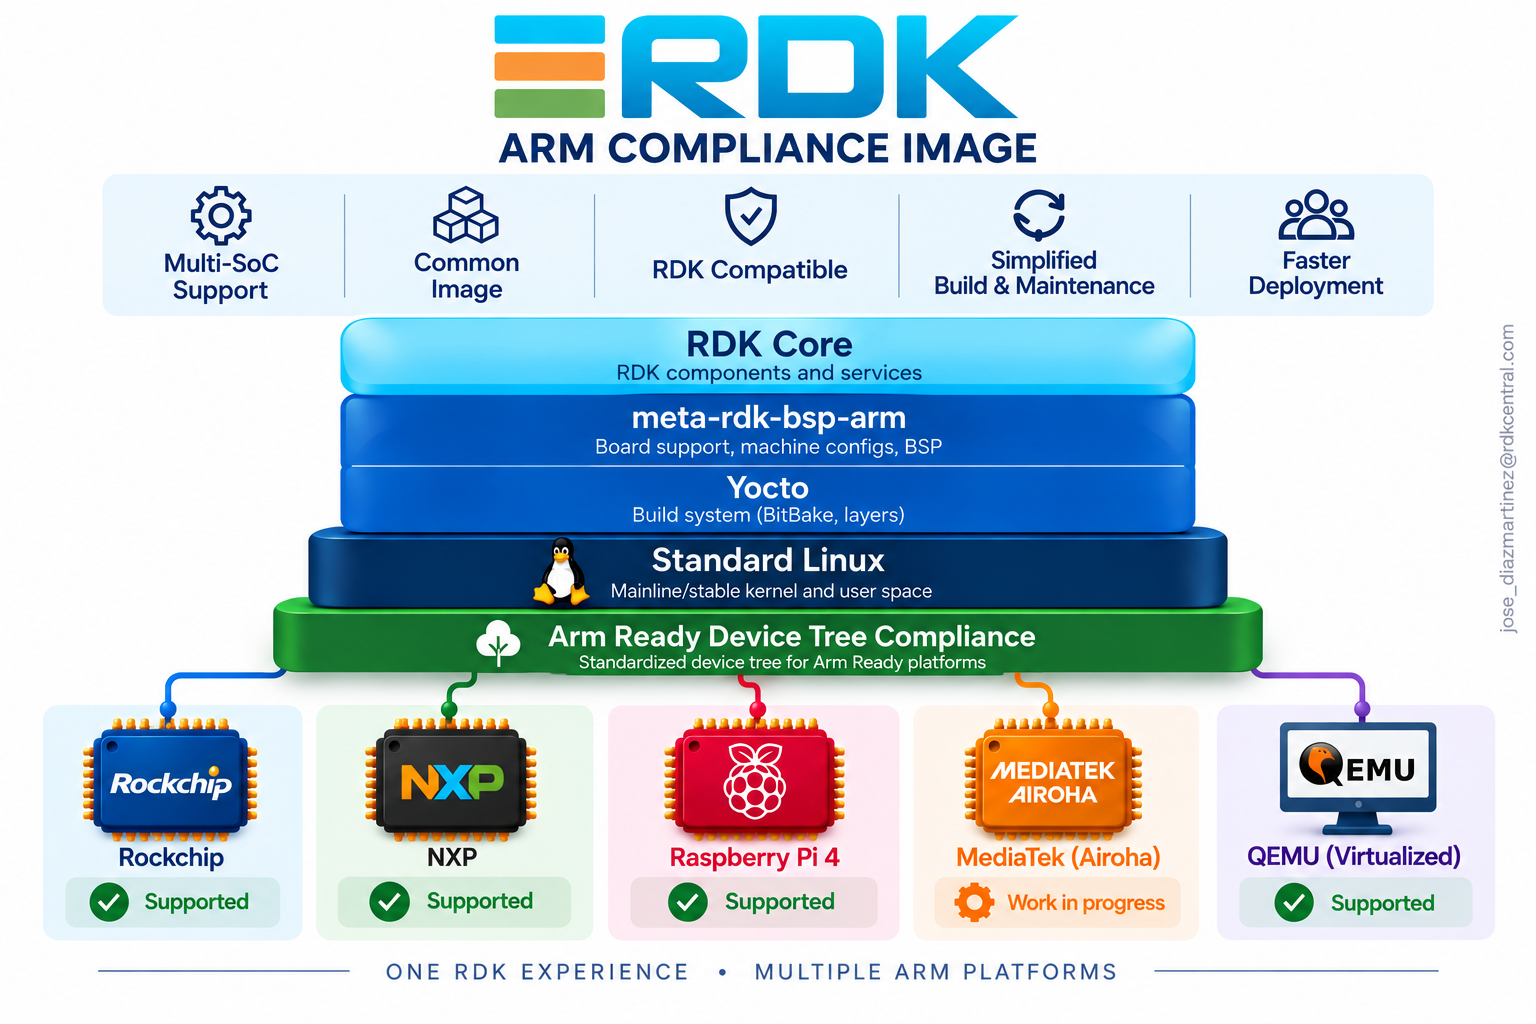
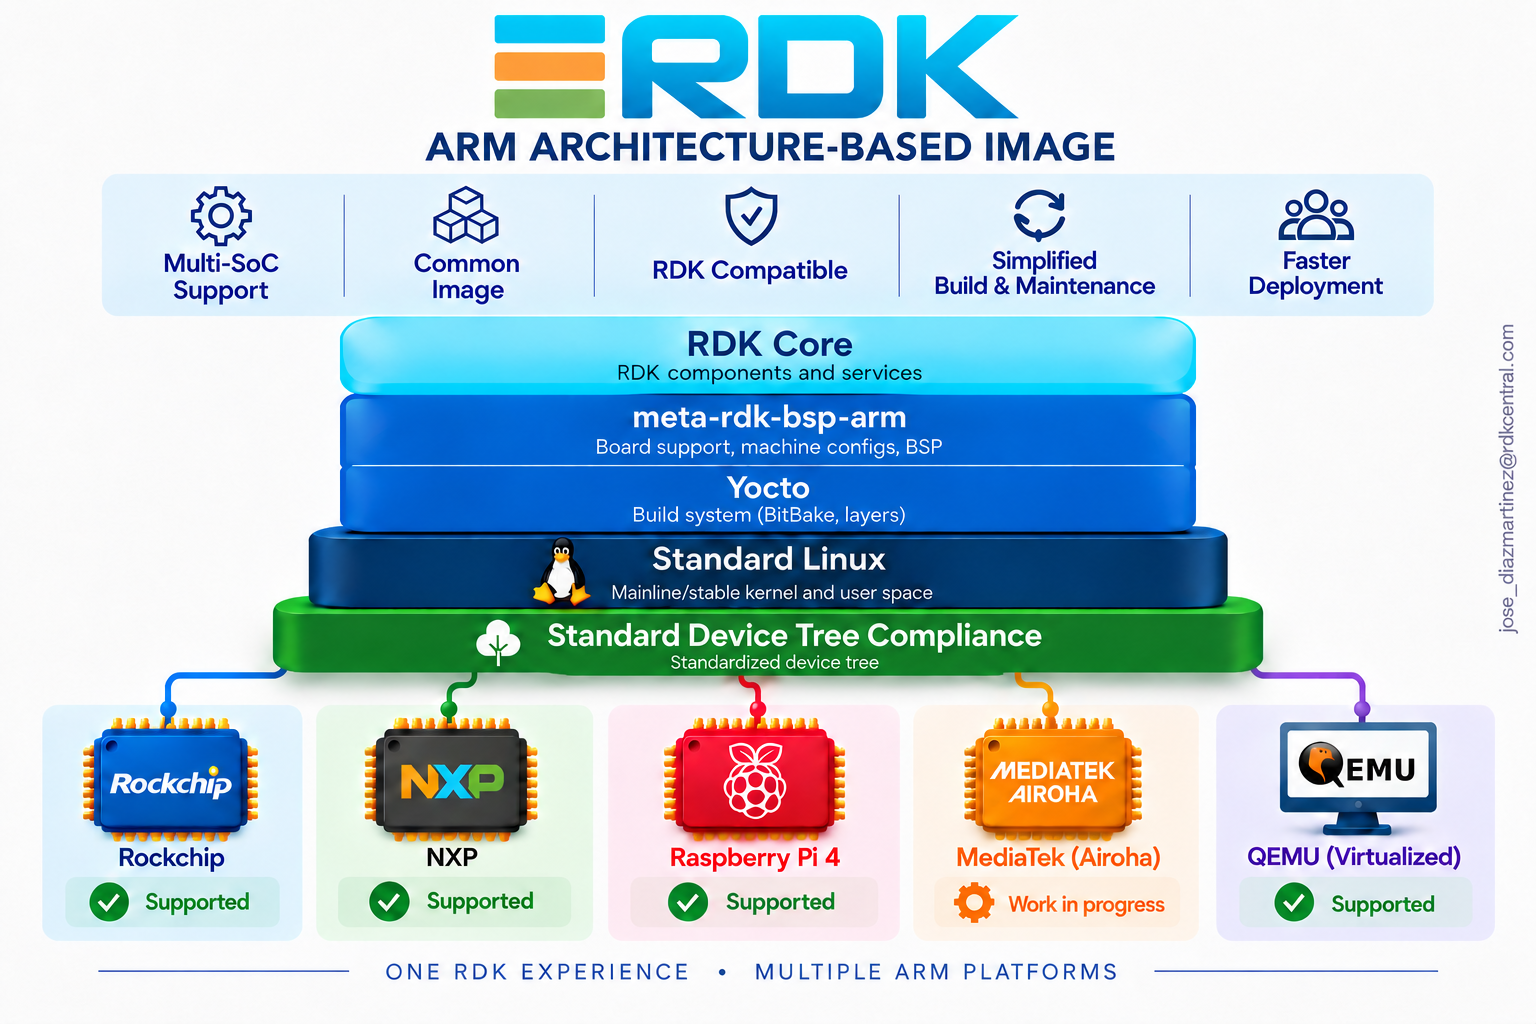
Update README trademark and compatibility wording

diff --git a/README.md b/README.md
@@ -1,16 +1,16 @@
-# RDK-B Reference BSP for Arm SystemReady
+# RDK-B Reference BSP for Arm Architecture
 
-This Yocto BSP layer builds a portable RDK-B operating system image for supported boards and virtual machines that implement [Arm SystemReady](https://www.arm.com/architecture/system-architectures/systemready-certification-program).
+This Yocto Project BSP layer builds a portable RDK-B operating system image for supported Arm®-based boards and virtual machines with compatible UEFI firmware.
 
 Other compatible hardware may also boot the image, with support on a best-effort basis. The layer uses only community-maintained upstream sources, including the Linux kernel from kernel.org.
 
-## Arm SystemReady introduction
+## Arm architecture alignment
 
-Arm SystemReady gives RDK-B a common firmware-to-OS interface. Firmware uses UEFI to boot the operating system and, on Device Tree-based platforms, describes the board hardware to Linux. This common boot flow reduces board-specific integration work and lets the same RDK-B image boot across supported platforms.
+The layer aligns with the Arm architecture and uses common firmware interfaces to support portable RDK-B images. Firmware uses UEFI to boot the operating system and, on Device Tree-based platforms, describes the board hardware to Linux. This common boot flow reduces board-specific integration work and lets the same RDK-B image boot across supported platforms.
 
 ## Table of contents
 
-- [Arm SystemReady introduction](#arm-systemready-introduction)
+- [Arm architecture alignment](#arm-architecture-alignment)
 - [Architecture and platform integration](#architecture-and-platform-integration)
 - [Build environment](#build-environment)
 - [How to use](#how-to-use)
@@ -64,9 +64,9 @@ Adding a new SoC can require custom work across several parts of the stack.
 - image layout
 - upgrade flow
 
-**Arm SystemReady provides a common firmware-to-OS contract that greatly reduces platform-specific adaptation.**
+**Common firmware-to-OS interfaces reduce platform-specific adaptation.**
 
-### Arm SystemReady building blocks
+### Architecture and firmware building blocks
 
 | Component | Purpose |
 |-----------|---------|
@@ -90,14 +90,14 @@ Adding a new SoC can require custom work across several parts of the stack.
 - Firmware–OS interoperability — Defines a consistent firmware-to-OS interface through EBBR/UEFI, so RDK-B can use a common boot flow across SoCs.
 - Security consistency — Provides an industry-standard model for Secure Boot and authenticated firmware updates through BBSR.
 - Standard OS update and rollback flow — Enables the OS to request the next boot target through standard UEFI boot variables and boot-management mechanisms, supporting A/B updates, recovery, and rollback.
-- Trusted firmware updates — Enables authenticated board-firmware updates using standard UEFI Capsule Update services, where the platform supports the SystemReady Security Extension.
-- Portable RDK-B OS image — Uses firmware-provided Device Tree hardware descriptions, allowing one RDK-B image to support multiple compliant platforms while keeping board-specific hardware configuration in firmware.
+- Trusted firmware updates — Enables authenticated board-firmware updates using standard UEFI Capsule Update services where supported by the platform.
+- Portable RDK-B OS image — Uses firmware-provided Device Tree hardware descriptions, allowing one RDK-B image to support multiple compatible platforms while keeping board-specific hardware configuration in firmware.
 
 ### Firmware-to-OS contract
 
 #### Firmware and hardware responsibilities
 
-The firmware shall provide a standard firmware-to-operating-system contract aligned with Arm SystemReady, including the required EBBR-based UEFI boot behavior.
+The firmware shall provide a standard firmware-to-operating-system interface, including the required EBBR-based UEFI boot behavior.
 
 The firmware has the following responsibilities on Device Tree-based platforms.
 
@@ -130,7 +130,7 @@ The operating system relies on standard firmware interfaces.
 * The bootloader can be started through standard UEFI boot entries (`BootOrder`, `BootNext`, EFI executable paths).
 * The kernel uses the firmware-supplied Device Tree to discover CPUs, memory, interrupt controllers, timers, buses, and board peripherals.
 
-This gives the operating system image a common boot path. The same RDK-B image can run on multiple Arm SystemReady platforms when the kernel includes the required drivers and Device Tree bindings.
+This gives the operating system image a common boot path. The same RDK-B image can run on multiple compatible Arm-based platforms when the kernel includes the required drivers and Device Tree bindings.
 
 ### Proposed boot chain
 
@@ -158,7 +158,7 @@ Linux Userspace
 
 #### Purpose
 
-`meta-rdk-bsp-arm` is the RDK-B reference BSP meta-layer used to build portable SystemReady/UEFI-based operating system images and integrate board firmware for supported targets.
+`meta-rdk-bsp-arm` is the RDK-B reference BSP meta-layer used to build portable UEFI-bootable operating system images and integrate board firmware for supported targets.
 
 ##### Current strategy
 
@@ -166,26 +166,18 @@ Linux Userspace
 * Provides greater implementation flexibility
 * Reduces dependency-alignment effort
 
-<a href="doc/rdk-arm-generic-current.png">
-  <img src="doc/rdk-arm-generic-current.png" width="640" alt="Current Arm SystemReady stack with RDK Core, meta-rdk-bsp-arm, Yocto, Linux, and Device Tree support across Arm platforms">
-</a>
-
 ##### Long-term layering strategy
 
-To align with the upstream Arm SystemReady Yocto ecosystem, we plan to split `meta-rdk-bsp-arm` into two Yocto layers.
+To align with the upstream Arm-based Yocto Project ecosystem, we plan to split `meta-rdk-bsp-arm` into two Yocto Project layers.
 
 - `meta-rdkb-bsp` will own board support and all Linux platform dependencies required by RDK-B, including machine configurations, board firmware, the Linux kernel, and system packages.
-- `meta-rdkb-runtime` will be dedicated to RDK-B components and their Yocto recipes and runtime configuration. These components will run on the Linux platform provided by the BSP layer.
+- `meta-rdkb-runtime` will be dedicated to RDK-B components and their Yocto Project recipes and runtime configuration. These components will run on the Linux platform provided by the BSP layer.
 
-<a href="doc/rdk-arm-generic-evolution.png">
-  <img src="doc/rdk-arm-generic-evolution.png" width="640" alt="Proposed Arm SystemReady stack with meta-rdkb-bsp for the Linux hardware image and meta-rdkb-runtime added for the RDK-B image with TR-181">
-</a>
-
-Where possible, `meta-rdkb-bsp` will build on the following Arm-provided Yocto support.
+Where possible, `meta-rdkb-bsp` will build on the following Arm-provided Yocto Project support.
 
 - `meta-arm`
 - `generic-arm64` / `genericarm64`
-- SystemReady-related support available in the `meta-arm` repository
+- Firmware and machine support available in the `meta-arm` repository
 
 ### Requirements from SoC vendors
 
@@ -193,7 +185,7 @@ Where possible, `meta-rdkb-bsp` will build on the following Arm-provided Yocto s
 
 ##### Firmware
 
-- SystemReady / EBBR compliant firmware
+- EBBR-compliant firmware
 - UEFI firmware image
 - Trusted Firmware-A (TF-A)
 - U-Boot (or equivalent bootloader)
@@ -247,9 +239,8 @@ Where possible, `meta-rdkb-bsp` will build on the following Arm-provided Yocto s
 - Supported boot devices
 - Known platform-specific limitations
 
-##### Arm SystemReady compliance
+##### Firmware interface compliance
 
-- SystemReady compliance level
 - EBBR capabilities
 - BBSR capabilities
 - Compliance evidence or certification reports
@@ -275,8 +266,8 @@ Where possible, `meta-rdkb-bsp` will build on the following Arm-provided Yocto s
 
 ##### Integration guidance
 
-- How to boot a generic EFI/SystemReady operating system
-- How to integrate the platform with Yocto
+- How to boot a generic UEFI operating system
+- How to integrate the platform with the Yocto Project
 - Guidance for other Linux distributions
 - Required proprietary firmware blobs or packages
 - Reference board setup
@@ -288,7 +279,7 @@ Where possible, `meta-rdkb-bsp` will build on the following Arm-provided Yocto s
 
 #### SoC vendor proposed ownership
 
-* Deliver a SystemReady Device Tree compliant firmware stack.
+* Deliver a firmware stack with UEFI boot support and a valid Device Tree.
 * Perform hardware bring-up.
 * Maintain UEFI / EBBR firmware.
 * Enable Secure Boot where supported.
@@ -297,37 +288,18 @@ Where possible, `meta-rdkb-bsp` will build on the following Arm-provided Yocto s
 
 #### RDK Management proposed ownership
 
-* Maintain the reusable Yocto integration.
+* Maintain the reusable Yocto Project integration.
 * Provide machine configurations.
 * Maintain the common Linux kernel baseline.
 * Build EFI bootable RDK-B images.
 * Maintain a common upgrade strategy.
 * Provide validation and lifecycle management across supported platforms.
 
-#### Arm current ownership
-
-- Define and maintain the Arm SystemReady specifications.
-- Define the EBBR and BBSR compliance requirements.
-- Maintain the Base System Architecture (BSA) specifications.
-- Provide reference firmware implementations and tooling where applicable.
-- Define and evolve the firmware-to-operating-system contract.
-- Operate the SystemReady compliance and certification program.
-
-#### Arm proposed contribution
-
-- Provide guidance on the recommended use of `meta-arm`, `generic-arm64`, and SystemReady-related Yocto support.
-- Help identify gaps between the upstream Arm Yocto ecosystem and broadband gateway requirements.
-- Review the `meta-rdk-bsp-arm` layering strategy and suggest alignment points with upstream Arm layers.
-- Support technical sync-ups to discuss missing functionality, integration blockers, and possible upstream improvements.
-- Advise on SystemReady, EBBR, BBSR, and firmware-to-OS contract interpretation.
-- Help define what should remain RDK-specific and what could be contributed or aligned upstream.
-- Provide feedback on how `meta-arm` could better support broadband-oriented use cases.
-
 ### Final goal
 
 #### RDK Management
 
-* Define the Yocto release.
+* Define the Yocto Project release.
 * Define the Linux kernel baseline.
 * Maintain kernel configuration.
 * Integrate common upstream fixes.
@@ -341,18 +313,9 @@ Where possible, `meta-rdkb-bsp` will build on the following Arm-provided Yocto s
 * Supply unavoidable vendor patches.
 * Validate the platform against the agreed kernel baseline.
 
-#### Arm
-
-- Provide guidance on the recommended use of `meta-arm`, `generic-arm64`, and SystemReady-related Yocto support.
-- Help identify gaps between the upstream Arm Yocto ecosystem and broadband gateway requirements.
-- Clarify SystemReady, EBBR, and BBSR expectations for broadband-oriented platforms.
-- Support alignment between `meta-rdk-bsp-arm` and the upstream Arm SystemReady ecosystem.
-- Advise on what should remain RDK-specific and what could be aligned or contributed upstream.
-- Provide feedback on platform compliance evidence, known deviations, and integration limitations.
-
 ### Objective
 
-Provide a portable, reusable, and maintainable RDK-B platform where responsibilities between RDK Management and SoC vendors are clearly separated through the Arm SystemReady firmware-to-operating-system contract.
+Provide a portable, reusable, and maintainable RDK-B platform with a common firmware-to-operating-system interface and clearly separated responsibilities between RDK Management and SoC vendors.
 
 ## Build environment
 
@@ -453,7 +416,7 @@ copy of `meta-rdk-bsp-arm`), like so:
 echo 'DISTRO_FEATURES:append:broadband = " EasyMesh"' >> conf/distro/include/local-settings.inc
 ```
 
-At the current time, the `main` branch mainfest will build RDK-B 2025Q1 (based on Yocto `kirkstone`),
+At the current time, the `main` branch mainfest will build RDK-B 2025Q1 (based on Yocto Project `kirkstone`),
 and will be updated following the next major RDK-B release.
 
 The `develop` branch is intended to follow `rdk-next` as closely as possible.
@@ -464,22 +427,22 @@ The `develop` branch is intended to follow `rdk-next` as closely as possible.
 
 There are two types of build outputs:
 
-* The _platform firmware_, which abstracts the hardware platform in a standard manner (the SystemReady standards).
+* The _platform firmware_, which provides standard boot interfaces to the operating system.
 
 * The _operating system image_, which includes the root filesystem, Linux kernel and boot manager.
   
   Development images generated by this layer can be used across any machine which has a compatible _platform firmware_ deployed.
 
 The default `armefi64-rdk-broadband` machine type will generate an _operating system image_
-that will be bootable on platforms with SystemReady (EFI) compatible firmware **and** a
-_platform firmware_ firmware which can be used with QEMU's arm64 
+that can boot on platforms with compatible UEFI firmware **and**
+_platform firmware_ which can be used with QEMU's arm64
 [`virt`](https://qemu-project.gitlab.io/qemu/system/arm/virt.html) machine type.
 
 The following generated binaries (in `build-armefi64-rdk-broadband/tmp/deploy/images/armefi64-rdk-broadband/`) are relevant:
 
 * `rdk-generic-broadband-image-armefi64-rdk-broadband.wic`: Uncompressed operating system image (kernel + rootfs + boot manager)
   
-  This image can be booted on a board (or virtual machine) which already has SystemReady compatible firmware
+  This image can be booted on a board (or virtual machine) which already has compatible UEFI firmware
 * `rdk-generic-broadband-image-armefi64-rdk-broadband.wic.qcow2`: QCOW2 operating system image, best to use with virtual machine programs
 * `rdk-generic-broadband-image-armefi64-rdk-broadband.tar.gz`: Compressed tar archive of the operating system image (including kernel). See [Image management and upgrades on generic Arm](#image-management-and-upgrades-on-generic-arm) for upgrade instructions.
 * `u-boot-armefi64-rdk-broadband.bin` (linked to `u-boot.bin`): Reference _platform firmware_ (used with QEMU `virt` machine)
@@ -491,7 +454,7 @@ A production device may use flash (NOR or NAND) devices for storing the system l
 
 Additional files like `Image` (Linux kernel Image file), `linuxaa64.efi.stub` (Kernel EFI stub),
 `systemd-bootaa64.efi` (systemd-boot executable) and `u-boot-initial-env-armefi64-rdk-broadband`
-(U-Boot "Factory" environment) are also generated by the Yocto build process.
+(U-Boot "Factory" environment) are also generated by the Yocto Project build process.
 These are not needed for normal development and deployment activities.
 
 It is intended that the `rdk-generic-broadband-image-armefi64-rdk-broadband.wic` is a _universal_
@@ -507,13 +470,13 @@ For further information, see [Real hardware](#real-hardware), [Development Notes
 
 ## Building platform firmware for different hardware types
 
-Many development boards will not have a SystemReady-compatible firmware pre-loaded,
+Many development boards will not have compatible UEFI firmware pre-loaded,
 or the pre-loaded firmware will be out of date.
 
 To provide an easier developer experience, this meta-layer can build the platform
 firmware for several common developer boards.
 
-Once you have deployed the SystemReady-compatible _platform firmware_ to your board,
+Once you have deployed compatible _platform firmware_ to your board,
 you will not need to replace it and only need to consider updating your
 _operating system image_.
 
@@ -578,9 +541,9 @@ raspberrypi64-rdk-broadband
 
 ### QEMU (Arm64 virtualized or emulated)
 
-#### Method 1: Yocto runqemu
+#### Method 1: Yocto Project runqemu
 
-The Yocto machine files are setup to boot the VM with `runqemu`.
+The Yocto Project machine files are setup to boot the VM with `runqemu`.
 
 This setup is not as flexible as other methods, but it allows quick verification
 that the built image is working.
@@ -622,7 +585,7 @@ as the `tapX` interface, while the WAN interface will use QEMU's Userspace emula
 You can use the generated `wic.qcow2` and `u-boot.bin` to invoke QEMU directly.
 This allows you to customize your QEMU setup for your own environment and requirements.
 
-On virtualization capable Arm64 hosts you can use KVM for near-native performance.
+On virtualization capable 64-bit Arm-based hosts you can use KVM for near-native performance.
 
 You can invoke QEMU like this:
 
@@ -666,17 +629,17 @@ sudo qemu-system-aarch64 -nographic \
     -device pci-serial
 ```
 
-On native Arm64 platforms with virtualization, enable KVM by replacing `-cpu cortex-a53` with `-cpu host --enable-kvm`.
+On native 64-bit Arm-based platforms with virtualization, enable KVM by replacing `-cpu cortex-a53` with `-cpu host --enable-kvm`.
 
 #### QEMU frontends (UTM.app, virt-manager etc.)
 See the [doc/virtualization](doc/virtualization) folder for information on using various QEMU frontend programs (like UTM.app and virt-manager).
 
 ### Real hardware
-A benefit of the SystemReady architecture is being able to use the same images
+A benefit of common firmware interfaces is being able to use the same images
 on virtual machines and bare-metal hardware.
 
-Note that images generated by this reference layer SHOULD boot on SystemReady compatible
-hardware, but hardware and vendor specific features like LED configurations, hardware
+Note that images generated by this reference layer should boot on hardware with compatible
+UEFI firmware and the required kernel drivers, but hardware and vendor specific features like LED configurations, hardware
 dataplanes and SoC-specific WiFi integrations are not included in this layer.
 
 See [Building platform firmware for different hardware types](#building-platform-firmware-for-different-hardware-types)
@@ -778,11 +741,11 @@ to external services are placeholder/test values only.
 
 `meta-rdk-bsp-arm` provides machine configurations and integrates board firmware for the targets it builds.
 
-Platforms with existing SystemReady-compatible firmware, such as EDK II under QEMU, can use the EFI-bootable operating system artifacts directly.
+Platforms with compatible UEFI firmware, such as EDK II under QEMU, can use the EFI-bootable operating system artifacts directly.
 
-#### SystemReady-compliant platforms without a machine configuration
+#### Compatible platforms without a machine configuration
 
-A compliant platform may be able to boot the portable RDK-B image using the vendor's firmware. To add support for that platform to this layer, follow these steps.
+A compatible platform may be able to boot the portable RDK-B image using the vendor's firmware. To add support for that platform to this layer, follow these steps.
 
 1. Obtain the vendor firmware.
 2. Add a machine configuration.
@@ -810,8 +773,8 @@ _This is simply an estimation of how much testing and development activity the p
 ### Firmware Source
 
 * Meta-layer: `meta-rdk-bsp-arm` has a machine type for this machine and can generate board-level firmware for it
-* External: You need to obtain and install the SystemReady/EFI-compatible firmware from elsewhere (usually the vendor) first
-* Platform: This platform has a SystemReady/EFI-compatible firmware built in (e.g virtualization programs using EDK-II), and we do not see the need to provide any customization for it
+* External: You need to obtain and install compatible UEFI firmware from elsewhere (usually the vendor) first
+* Platform: This platform has compatible UEFI firmware built in (e.g virtualization programs using EDK-II), and we do not see the need to provide any customization for it
 
 When there is an asterisk `*` marked in this column, it is planned to integrate firmware generation into `meta-rdk-bsp-arm` in the near future.
 
@@ -864,7 +827,7 @@ This approach is modeled on the [Snapper](https://documentation.suse.com/smart/s
 1. Allows rollback to previous image versions.
 2. Avoids repartitioning and writing raw disk images during upgrades, reducing disk wear.
 3. Uses native Btrfs snapshots for read-only system images.
-4. Integrates with Arm EFI and SystemReady boot flows. The basic implementation works on platforms with the required firmware features. Platforms with additional EFI features can support deeper integration.
+4. Integrates with UEFI boot flows on Arm-based platforms. The basic implementation works on platforms with the required firmware features. Platforms with additional EFI features can support deeper integration.
 
 ### Implementation
 
@@ -984,10 +947,14 @@ For development purposes, there is both a "core" image type and a RDK-B image ty
 
 * `armefi64`
    This is the "base" machine type that serves as a base. It does not import any RDK packages or
-   configuration. When updating to newer Yocto project versions, use this
-   machine for the initial porting (with Yocto image types like `core-image-minimal`).
+   configuration. When updating to newer Yocto Project versions, use this
+   machine for the initial porting (with Yocto Project image types like `core-image-minimal`).
 
 * `armefi64-rdk-broadband`
    This is the RDK-B reference machine which inherits from `armefi64`
 
 When adding another machine to the layer, it should inherit from `armefi64-rdk-broadband`.
+
+## Trademark notice
+
+Arm is a registered trademark of Arm Limited (or its subsidiaries or affiliates) in the US and/or elsewhere.
